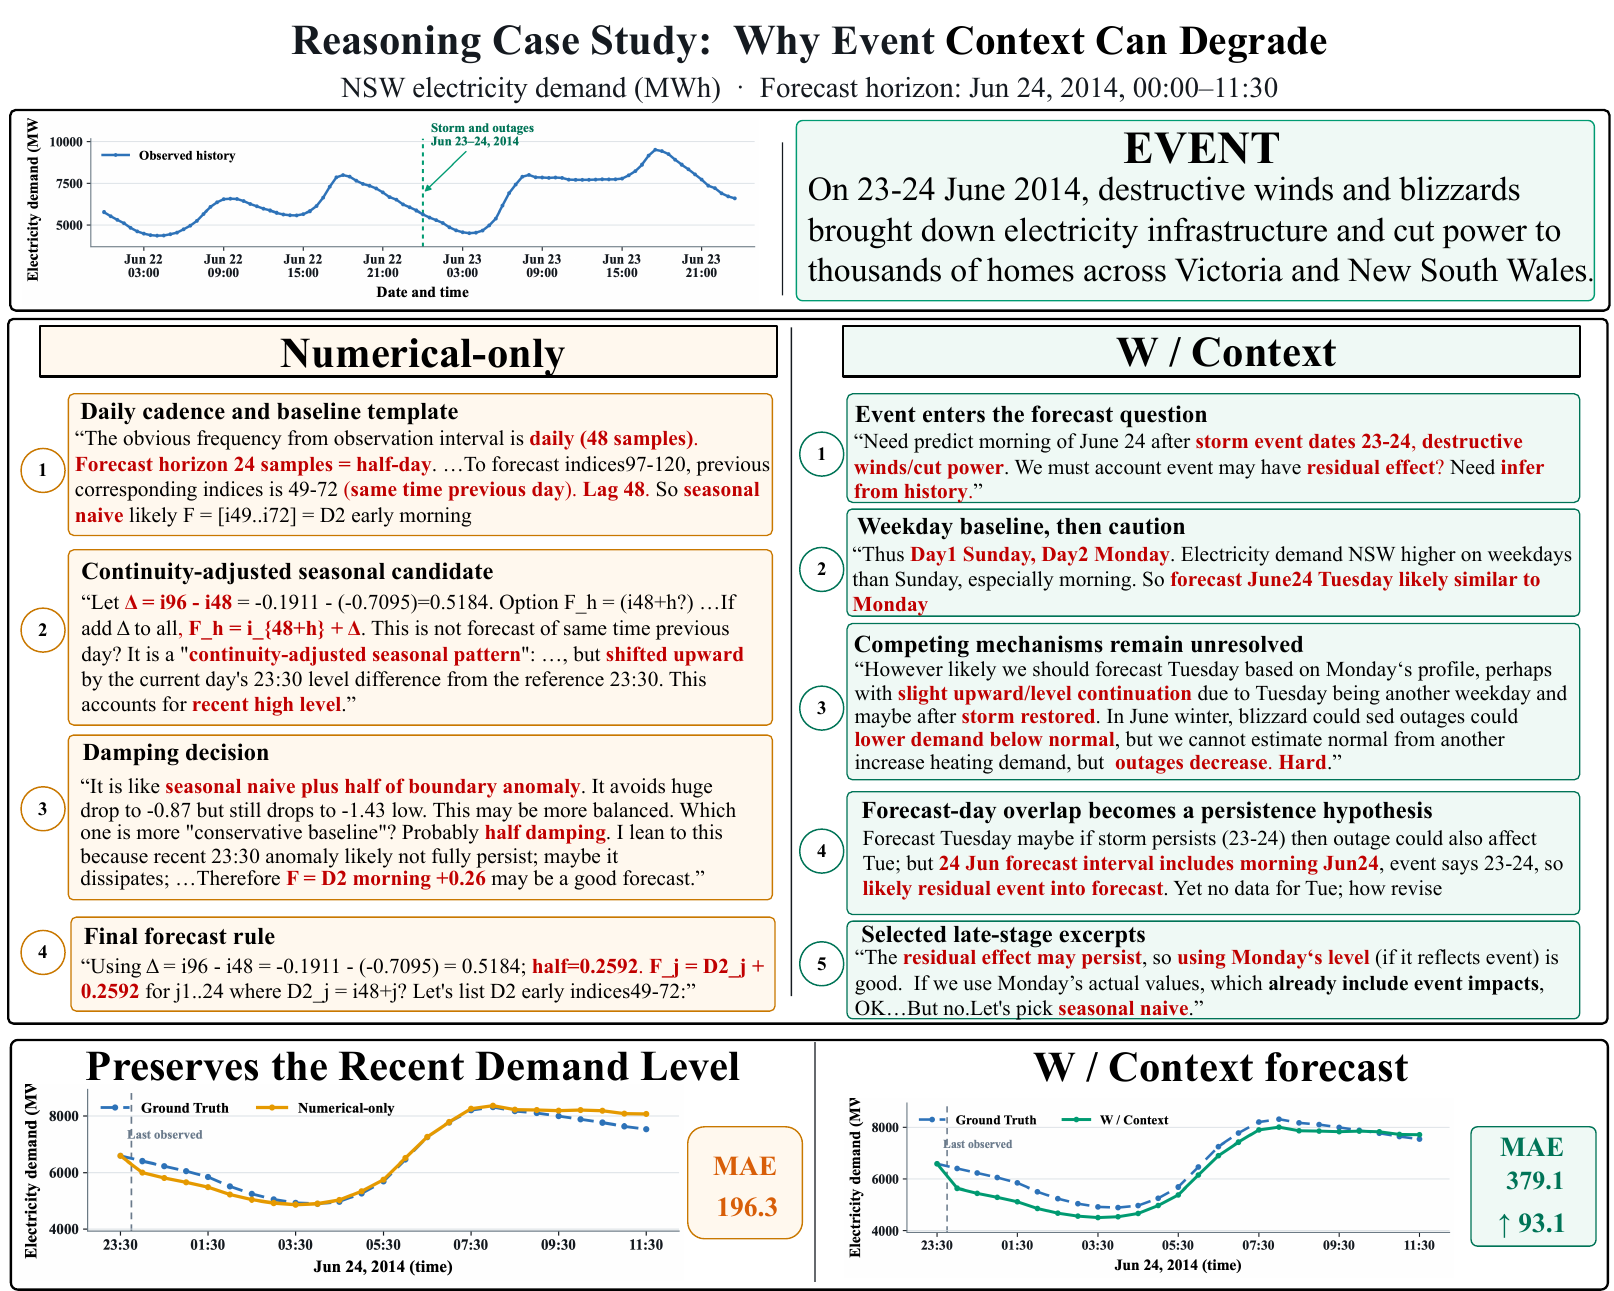
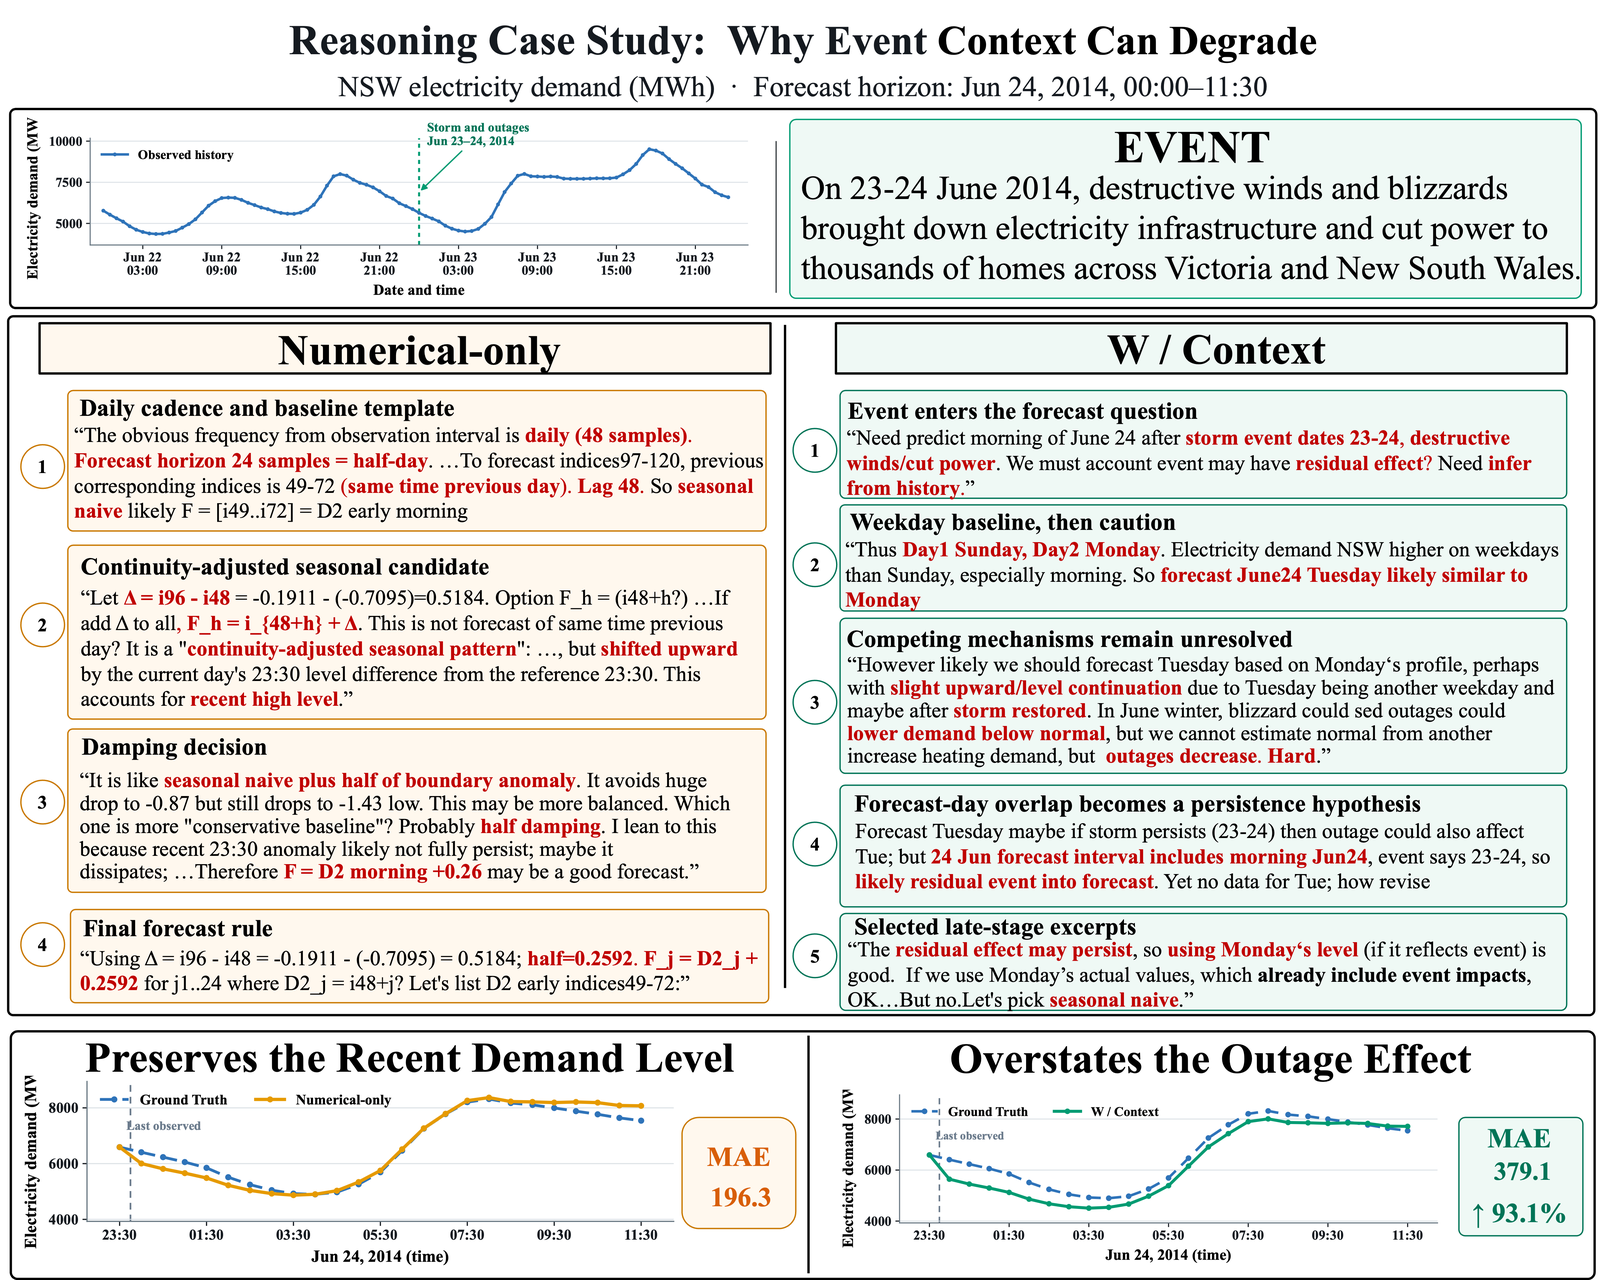
Update energy reasoning case layout

diff --git a/index.html b/index.html
@@ -875,11 +875,13 @@
         display: grid;
         grid-template-columns: repeat(2, minmax(0, 1fr));
         gap: 24px;
-        align-items: start;
+        align-items: stretch;
       }
       .reasoning-case {
+        display: flex;
         position: relative;
         padding-top: 18px;
+        flex-direction: column;
         border-top: 1px solid var(--rule-dark);
       }
       .reasoning-case::before {
@@ -912,8 +914,22 @@
       }
       .case-badge.positive { color: #0b775f; background: #edf8f4; }
       .case-badge.counterexample { color: #9b5a13; background: #fff6e9; }
-      .reasoning-case .case-study-figure { padding: 17px 17px 18px; }
-      .reasoning-case figcaption { max-width: 1060px; }
+      .reasoning-case .case-study-figure {
+        display: flex;
+        padding: 17px 17px 18px;
+        flex: 1 1 auto;
+        flex-direction: column;
+      }
+      .reasoning-case .figure-image {
+        aspect-ratio: 1603 / 1308;
+        object-fit: contain;
+        object-position: center top;
+      }
+      .reasoning-case figcaption {
+        max-width: 1060px;
+        margin-top: auto;
+        padding-top: 21px;
+      }
       .case-separator-note {
         width: min(100%, 1120px);
         margin: 24px auto 0;
@@ -1492,8 +1508,8 @@
                     <span class="case-badge counterexample">Counterexample</span>
                   </div>
                   <figure class="figure-shell case-study-figure">
-                    <div class="figure-toolbar"><span class="figure-kicker">Reasoning case · NSW electricity demand</span><a href="world2ts-assets/reasoning-energy-counterexample.pdf" target="_blank" rel="noopener">Open vector PDF ↗</a></div>
-                    <img class="figure-image" src="world2ts-assets/reasoning-energy-counterexample-preview.png" width="1614" height="1291" loading="lazy" decoding="async" alt="Energy reasoning trace showing a counterexample where event context degrades the forecast">
+                    <div class="figure-toolbar"><span class="figure-kicker">Reasoning case · NSW electricity demand</span><a href="world2ts-assets/reasoning-energy-counterexample.png" target="_blank" rel="noopener">Open full resolution ↗</a></div>
+                    <img class="figure-image" src="world2ts-assets/reasoning-energy-counterexample-preview.png" width="1600" height="1280" loading="lazy" decoding="async" alt="Energy reasoning trace showing a counterexample where event context degrades the forecast">
                     <figcaption><strong>Counterexample.</strong> The numerical-only path preserves daily seasonality and recent level continuity. With context, the model considers residual storm and outage effects, shifts the forecast downward, and increases MAE by 93.1.</figcaption>
                   </figure>
                 </article>
